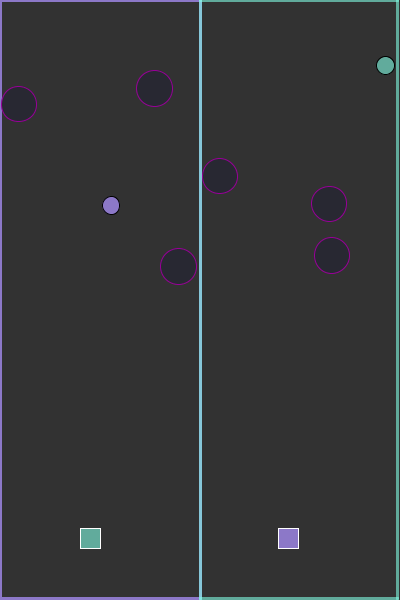
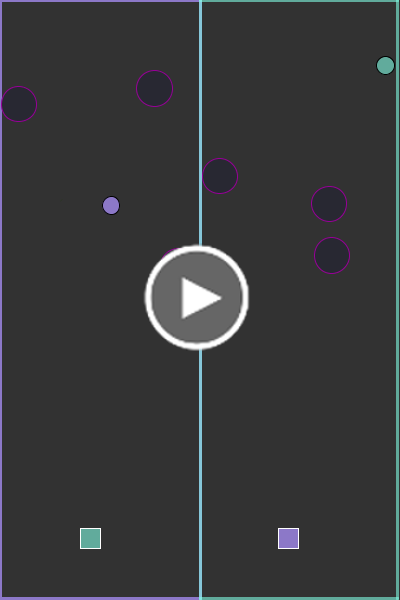
add play button to thumbnail and setup instructions

Changed region(s): [[0.36, 0.39, 0.63, 0.6]]

diff --git a/README.md b/README.md
@@ -1,3 +1,8 @@
+Setup:
+------
+`git clone https://github.com/rcamba/ProcessingGameMT`  
+Open **game.pde** in [Processing](https://processing.org/download/) and then run it  
+
 Instructions:
 -------------
 Survive as long as possible.  
